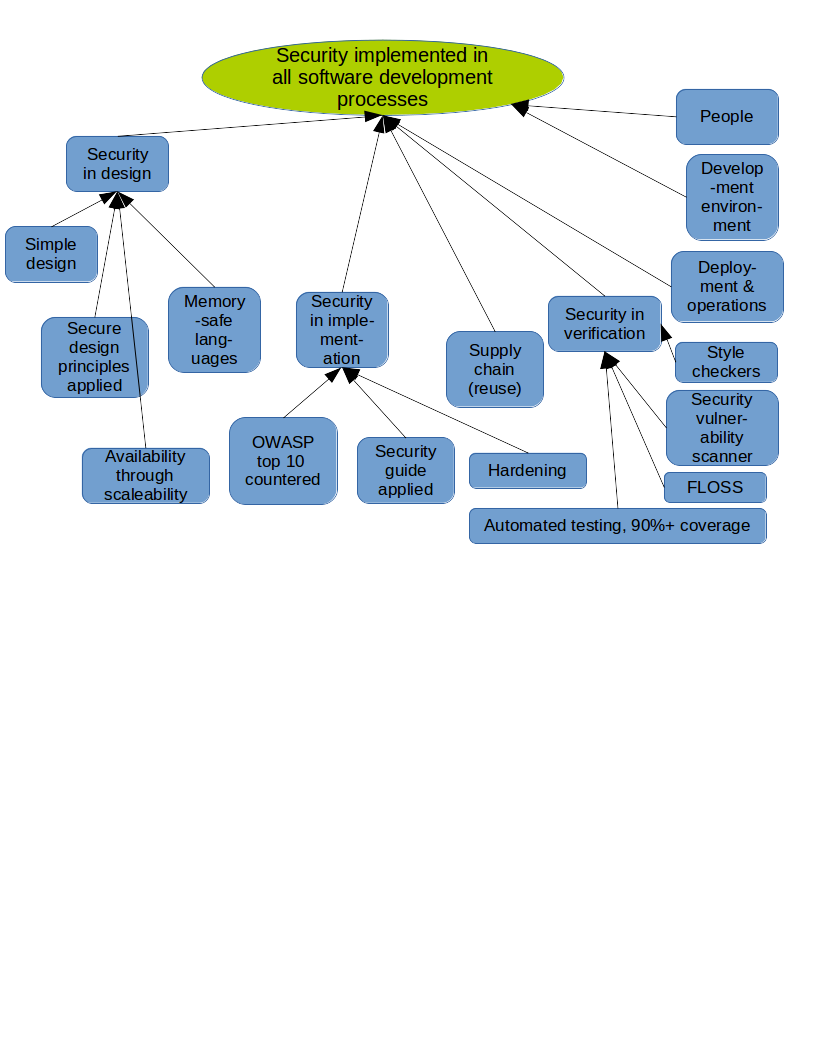
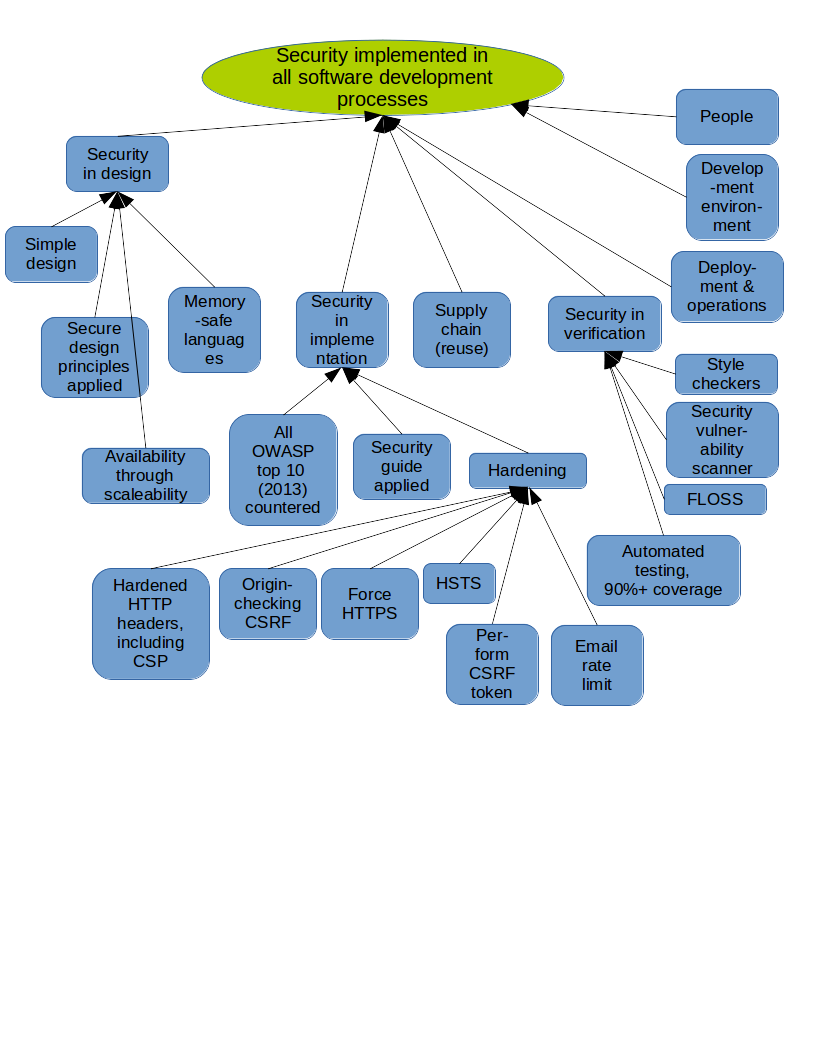
Improve assurance case information

diff --git a/doc/security.md b/doc/security.md
@@ -13,14 +13,14 @@ For more technical information on the implementation, see
 [implementation.md](implementation.md).
 
 The following figures summarize why we think this application
-is adequately secure; in short, we have identified the security
-requirements, implement the functional requirements, and we implement
-security in all our software development processes
-(we don't use a waterfall appraoch, but we obviously *do* design,
-implement, verify, and so on):
+is adequately secure:
 
 ![Assurance case summary](./assurance-case.png)
 ![Assurance case in lifecycle](./assurance-case-lifecycle.png)
+
+These figures are in Claims, Arguments and Evidence (CAE) notation.
+Ovals are claims or sub-claims, while rounded rectangles are the supporting
+arguments justifying the claims.
 
 Our overall security approach is called
 defense-in-breadth, that is, we consider
@@ -31,6 +31,28 @@ external suppliers).
 In each software development process we
 identify the specific issues that most need to be addressed,
 and then address them.
+
+We do *not* use a waterfall model for software development.
+It's important to note that when we use the word *process* it
+has a completely different meaning from a time *phase*.
+Instead, we use the word "process" with its standard meaning in
+software and systems engineering, that is,
+a "process" is just a "set of interrelated or interacting activities
+which transforms inputs into outputs" (ISO ISO 9000:2005, quoted in
+ISO/IEEE 12207:2008).
+In a waterfall model, these processes are done to completion
+in a strict sequence of "phases": you create all of the requirements in
+one phase, then do all the design in the next phase, and so on.
+Winston Royce's paper "Managing the Development of Large Software Systems"
+(1970) notes that this naive waterfall approach
+"is risky and invites failure" - in practice
+"design iterations are never confined to the successive steps".
+We obviously *do* determine what the software will do differently
+(requirements), as well as design, implement, and verify it, so we
+certainly do have these processes.
+However, as with almost all real software development projects,
+we perform these processes in parallel, iterating and
+feeding back as appropriate.
 
 Below are the overall security requirements, followed by how we approach
 security in design, implementation,
@@ -138,6 +160,15 @@ which makes entering nonsense data have much less value.
 We may in the future add support for groups (e.g., where the owner
 can designate other users who can edit that entry) and
 a way to 'validate' project entries for projects not on GitHub.
+
+Here we have identified the key security requirements and why we believe
+they've been met overall.  However, there is always the possibility that
+a mistake could lead to failure to meet these requirements.
+We manage this risk by
+implementing security in all our software development processes.
+We also protect our development environment and choose people
+who will help support this.
+The following sections describe how we've managed this risk.
 
 ## Security in Design
 
